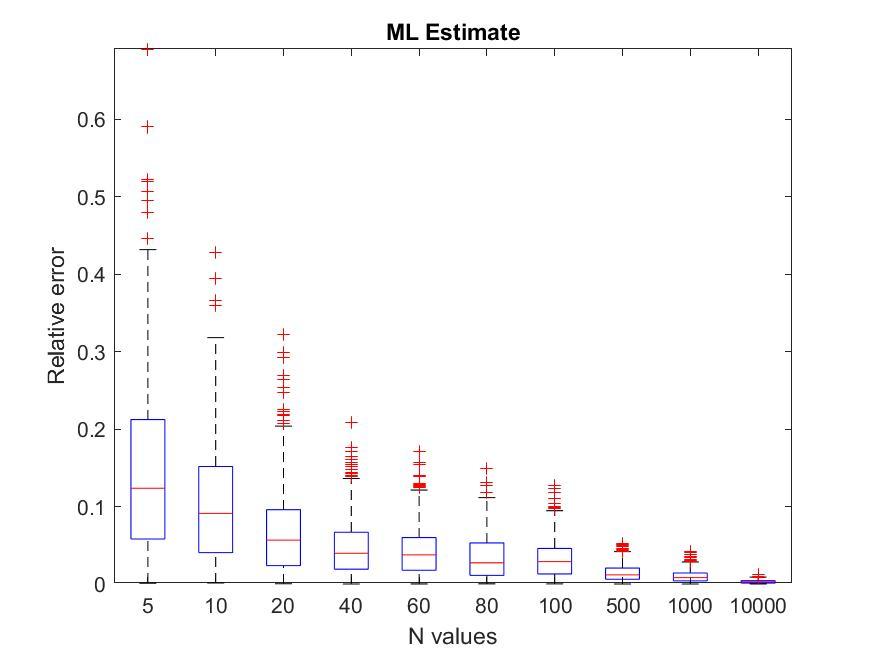
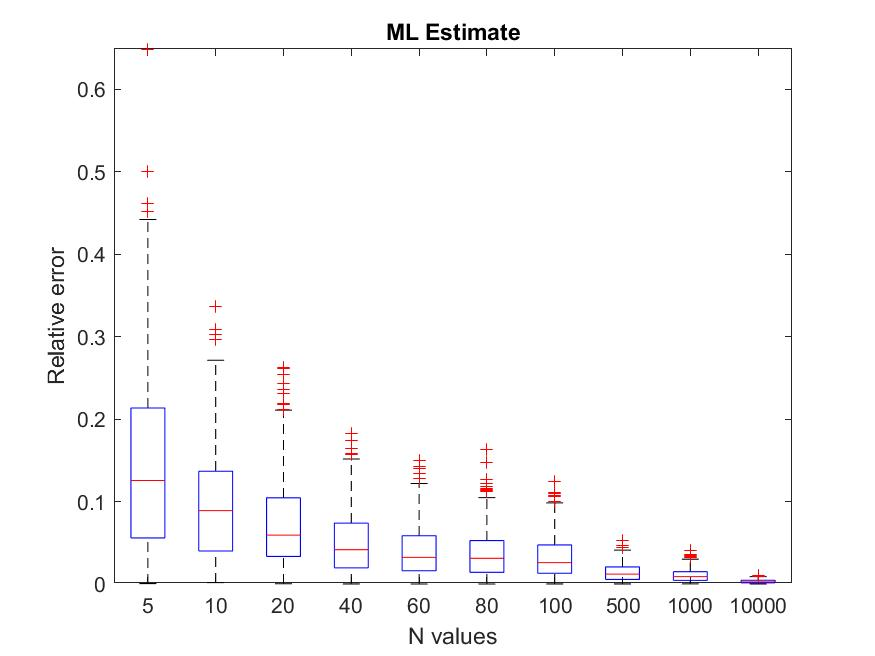
Q1: Renamed ambiguous variable

diff --git a/code/q1.m b/code/q1.m
@@ -1,9 +1,9 @@
 clc;
 clear;
 close all;
-rng(0);
+rng(42);
 
-n_epochs = 500; % Same as M in the problem statement (>= 100)
+M_iters = 500;
 
 % Parameters
 % True
@@ -18,13 +18,13 @@ b = 11.5;
 
 N_vals = [5, 10, 20, 40, 60, 80, 100, 500, 10^3, 10^4];
 len_n = length(N_vals);
-MLE = zeros(len_n, n_epochs);
-MAP1 = zeros(len_n, n_epochs);
-MAP2 = zeros(len_n, n_epochs);
+MLE = zeros(len_n, M_iters);
+MAP1 = zeros(len_n, M_iters);
+MAP2 = zeros(len_n, M_iters);
 
 for i = 1:1:len_n
     N = N_vals(i);
-    for j = 1:1:n_epochs
+    for j = 1:1:M_iters
         % Data generation
         data = mu_true + s_true*randn([N, 1]);
         avg = sum(data)/N;
@@ -49,6 +49,8 @@ for i = 1:1:len_n
 end
 
 % Remove unnecessary data from the workspace:
+clear i;
+clear j;
 clear N;
 clear avg;
 clear mus;
